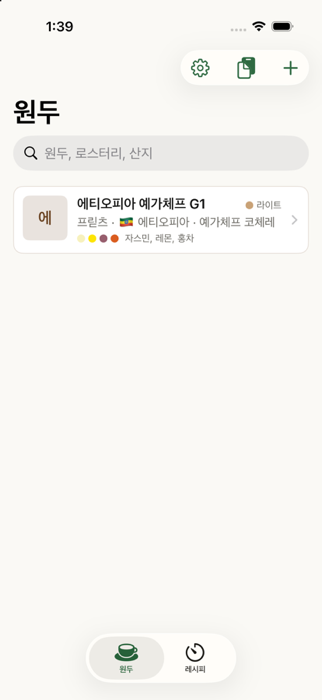
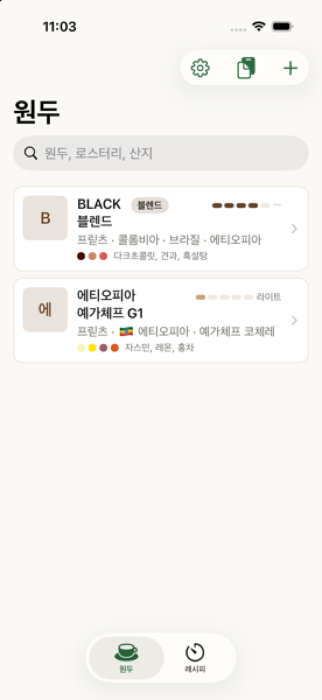
0.8.1 — 디자인 리뷰 2회차: 타이머 카운트다운·진행 바, 로스팅 바, 로고 컨셉 1차
- 추출 카드: 다음 푸어까지 남은 초를 34pt 숫자(5초 이하 체리)로, 현재 단계 진행 바 (Crouton·Numbies 타이머 패턴)
- RoastBar: 로스팅 포인트 7단계 → 5칸 바. 목록 행·문서 헤더에 표시 (DESIGN_DIRECTION 시그니처 무브)
- docs/DESIGN_REVIEW_2026-10.md: UI 레퍼런스 MCP 5종(Mobbin·Nicelydone·Refero·Lazyweb·InspoAI) 조사·연결 상태·레퍼런스·반영 내역
- docs/logo/: 로고 리디자인 컨셉 1차(Sapling / Bookmark / Bracketed Bean) 시안·SVG
- 테스트: 단위 58/58, 타이머·컵 피커·레이아웃 UI 8/8

diff --git a/BeanMuWiki/BrewCardView.swift b/BeanMuWiki/BrewCardView.swift
@@ -168,12 +168,22 @@ struct BrewCardView: View {
                 }
                 let next = (phase ?? -1) + 1
                 if next < times.count {
-                    let wait = Int((Double(times[next]) - elapsed).rounded(.up))
-                    Text("다음 · \(PourStep.timeString(times[next])) → \(target(next)) (\(max(0, wait))초 후)")
-                        .font(.subheadline).foregroundStyle(Color.ink)
+                    let wait = max(0, Int((Double(times[next]) - elapsed).rounded(.up)))
+                    let start = Double(phase.map { times[$0] } ?? 0), end = Double(times[next])
+                    let progress = end > start ? min(1, max(0, (elapsed - start) / (end - start))) : 1
+                    // 다음 단계: 남은 초가 가장 큰 숫자, 그 아래 목표와 메모. 진행 바는 지금 단계가 얼마나 지났는지
+                    HStack(alignment: .firstTextBaseline, spacing: Theme.s8) {
+                        Text("\(wait)").font(.system(size: 34, weight: .bold, design: .rounded)).foregroundStyle(wait <= 5 ? Color.cherry : Color.ink)
+                            .contentTransition(.numericText(countsDown: true)).animation(.default, value: wait)
+                        Text("초 후 · \(PourStep.timeString(times[next])) → \(target(next))").font(.subheadline).foregroundStyle(Color.ink)
+                    }
+                    .accessibilityElement(children: .combine)
+                    .accessibilityLabel("다음 \(PourStep.timeString(times[next])) \(target(next)) \(wait)초 후")
                     if next < steps.count, !steps[next].note.isEmpty {
                         Text(steps[next].note).font(.subheadline).foregroundStyle(Color.muted)
                     }
+                    ProgressView(value: progress).tint(.brand).padding(.top, Theme.s4)
+                        .accessibilityHidden(true)
                 }
             }
             .font(.system(.body, design: .rounded)).monospacedDigit()

diff --git a/BeanMuWiki/FlavorViews.swift b/BeanMuWiki/FlavorViews.swift
@@ -213,6 +213,30 @@ struct FlavorChips: View {
     }
 }
 
+/// 로스팅 바: 로스팅 포인트(라이트 … 베리 다크)를 5칸 바로. 칸 색은 그 단계의 원두색, 빈 칸은 cardTint.
+/// 목록에 없는 표기면 아무것도 그리지 않는다 (호출 쪽에서 텍스트만).
+struct RoastBar: View {
+    let level: String
+    var height: CGFloat = 6
+
+    private static let order = BeanOptions.roastLevels.flatMap(\.options).map(\.name)   // 라이트 → 베리 다크
+    private var index: Int? { Self.order.firstIndex(of: level) }
+
+    var body: some View {
+        if let index {
+            let filled = Int((Double(index + 1) / Double(Self.order.count) * 5).rounded(.up))   // 7단계 → 5칸
+            let color = BeanOptions.option(named: level, in: BeanOptions.roastLevels)?.color ?? .bean
+            HStack(spacing: 3) {
+                ForEach(0..<5, id: \.self) { i in
+                    Capsule().fill(i < filled ? color : Color.cardTint).frame(height: height)
+                }
+            }
+            .frame(width: 5 * 12 + 4 * 3)
+            .accessibilityLabel("로스팅 \(level)")
+        }
+    }
+}
+
 /// 목록 행용 색 점 묶음 (최대 8개).
 struct FlavorDots: View {
     let tags: [String]

diff --git a/BeanMuWiki/BeanDetailView.swift b/BeanMuWiki/BeanDetailView.swift
@@ -96,7 +96,7 @@ struct BeanDetailView: View {
             if !meta.isEmpty { Text(meta.joined(separator: " · ")).font(.subheadline).foregroundStyle(Color.muted) }
             if !bean.roastLevel.isEmpty {
                 HStack(spacing: 6) {
-                    OptionBadge(value: bean.roastLevel, groups: BeanOptions.roastLevels, ownColor: true)
+                    RoastBar(level: bean.roastLevel)
                     Text(bean.roastLevel).font(.caption.weight(.semibold))
                 }
                 .padding(.horizontal, Theme.s8).padding(.vertical, 3)

diff --git a/BeanMuWiki/BeanListView.swift b/BeanMuWiki/BeanListView.swift
@@ -116,7 +116,7 @@ struct BeanRow: View {
                     Spacer(minLength: 0)
                     if !bean.roastLevel.isEmpty {
                         HStack(spacing: Theme.s4) {
-                            OptionBadge(value: bean.roastLevel, groups: BeanOptions.roastLevels, ownColor: true)
+                            RoastBar(level: bean.roastLevel)
                             Text(bean.roastLevel)
                         }
                         .font(.caption).foregroundStyle(rowMeta).lineLimit(1)

diff --git a/docs/DESIGN_REVIEW_2026-10.md b/docs/DESIGN_REVIEW_2026-10.md
@@ -1,0 +1,43 @@
+# 디자인 리뷰 2회차 (2026-10-09) — UI 레퍼런스 MCP 5종 + 로고 리디자인
+
+## 1. 연결한 MCP (사용자 설정, `claude mcp list`)
+
+| MCP | 무엇을 하나 | 엔드포인트 | 접근 조건 | 상태 |
+|---|---|---|---|---|
+| **Mobbin** | 실제 출시 앱·웹의 화면·플로우·섹션 검색 (`search_screens` / `search_flows` / `search_sections`). 레퍼런스 양과 큐레이션이 가장 큼 | `https://api.mobbin.com/mcp` | Mobbin 계정 OAuth, **Pro 이상 유료** | 등록됨 · 인증 필요 |
+| **Nicelydone** | SaaS 제품 21만 화면·8천 플로우. 패턴(모달·폼·네비·테이블)·컴포넌트·앱 카테고리 탐색, 컬렉션 정리 (12개 도구) | `https://mcp.nicelydone.club/mcp` | OAuth 2.1, **프리미엄 유료** | 등록됨 · 인증 필요 |
+| **Refero** | 15만 실제 앱 화면·플로우 + `styles.refero.design`의 디자인 시스템(DESIGN.md) 카탈로그 | `https://api.refero.design/mcp` | OAuth 또는 토큰, **Pro/Team/Lifetime 유료** (커뮤니티 npx 버전은 403으로 막힘) | 등록됨 · 인증 필요 |
+| **Lazyweb** | 28만 화면·1.5만 플로우/회사 페이지의 시맨틱 검색. 공개 엔드포인트는 계정·키 없이 동작 | `https://www.lazyweb.com/mcp/public` | 무료 (Pro는 전체 리포트) | **연결됨** |
+| **InspoAI** | 20만 실제 화면을 근거로 UI 화면을 **생성**(React+Tailwind), 디자인→Figma 변환, UI·아이콘·서체 레퍼런스 검색 | `https://app.inspoai.io/mcp` | OAuth (요금제 확인 필요) | 등록됨 · 인증 필요 |
+
+인증이 필요한 4개는 새 세션에서 `/mcp` → 해당 서버 → **Authenticate**로 브라우저 로그인하면 됩니다. Mobbin·Nicelydone·Refero는 유료 플랜이 있어야 도구가 응답합니다(결제는 사용자 판단).
+
+## 2. 이번에 참고한 레퍼런스 (Lazyweb 공개 검색)
+
+- **Crouton — Follow cooking steps / Open recipe**: 레시피 상세 → 단계 화면에서 한 단계만 크게, 체크 가능, 타이머 내장. → 추출 카드의 "지금 단계" 강조와 같은 구조.
+- **Numbies — 세션 타이머**: 화면에 큰 숫자 하나(세션 시간)와 현재 항목, 다음 동작 버튼. → 다음 푸어까지 남은 초를 큰 숫자로.
+- **Beli — Taste Profile**: 취향을 색·태그로 요약한 프로필. → 원두의 로스팅 포인트를 바(bar)로 즉시 읽히게, 플레이버 도트와 짝.
+- 커피 전용 앱(Beanconqueror, 빈카이브 등)은 Lazyweb 공개 인덱스에 없어 Mobbin/Nicelydone 인증 후 2차 리뷰 대상.
+
+## 3. 반영한 수정
+
+1. **추출 카드 타이머**: 다음 푸어까지 남은 초를 34pt 숫자로(5초 이하 체리색), 그 옆에 시각·목표 g, 아래에 현재 단계 진행 바. 경과 시간(56pt)과 함께 "지금 / 다음" 두 숫자만 보면 되게.
+2. **로스팅 바**: 로스팅 포인트 7단계를 5칸 바로(칸 색 = 그 단계 원두색). 목록 행 오른쪽 위와 문서 헤더 배지에 표시. `RoastBar` (FlavorViews.swift).
+3. 이전 라운드에서 들어간 것: 레시피 변형 배지, 컵 피커, 블렌드 배지.
+
+## 4. 2차 리뷰에서 볼 것 (MCP 인증 후)
+
+- Mobbin: "coffee brew timer", "tasting notes" 플로우 — 추출 카드의 단계 전환 애니메이션·햅틱 타이밍, 기록 폼의 별점 UI.
+- Nicelydone: 테이블·폼 패턴 — Mac 기록 표와 그룹 폼 밀도.
+- Refero: 디자인 시스템 카탈로그 — 크림 캔버스 계열 스타일과 토큰 비교(`Theme.swift`).
+- InspoAI: 빈 상태·온보딩 화면 생성 시안.
+
+## 5. 로고 리디자인 (logo-design 스킬, 1차 컨셉)
+
+현재 아이콘: 에메랄드 그라디언트 타일 + 흰 원두 + 새싹. 유지할 자산은 **초록 계열**과 **원두 실루엣**. 컨셉 시안 `docs/logo/concepts-round1.png`, SVG `docs/logo/concept-*.svg`.
+
+- **A · Sapling Bean (추천)** — 원두의 틈이 묘목으로 자란다. Bean + 나무(위키)를 한 형태로, 기존 새싹 아이콘의 진화. 16px에서도 읽힘.
+- **B · Bookmark Bean** — 원두에 책갈피 리본. "저장된 항목"이라는 위키 성격. 16px에서 리본이 약해짐.
+- **C · Bracketed Bean** — 위키 링크 `[[ ]]` 사이의 원두. 타이포그래픽하고 또렷하지만 원두 자체는 작아짐.
+
+방향이 정해지면 색(브랜드 그린 단색·크림 반전), 소형 컷, 앱 아이콘·파비콘 세트, 사용 가이드를 만든다.

diff --git a/README.md b/README.md
@@ -11,7 +11,7 @@
 - **추출 기록** — 추출 중 바뀌지 않는 조건(원두 g, 물 온도, 분쇄도)과 **푸어 단계 슬롯**(몇 초에 누적 몇 g을 어떤 방식으로)을 나눠 적습니다. 단계를 추가하면 물 총량과 비율이 따라 계산됩니다. 평점과 노트를 남기고, 잘 나온 기록을 ★ 기준 레시피로 두면 다음 기록이 그 값으로 미리 채워집니다.
 - **HOT / ICED × 드리퍼** — 기록마다 서빙과 드리퍼(V60, 칼리타 101, 칼리타 웨이브, 오리가미 …)를 고르고, ICED는 서버 얼음 g을 따로 적어 브루 비율과 최종 비율(물+얼음)이 함께 계산됩니다. ★ 기준 레시피는 **서빙 × 드리퍼** 조합마다 하나씩 둘 수 있어, 같은 원두의 V60 레시피와 칼리타 101 레시피가 나란히 남습니다. 새 기록 폼에서 드리퍼를 바꾸면 그 드리퍼의 기준 레시피로 미리 채워집니다. 기록에 **변형 이름**(예: "연하게", "여자친구용")을 붙이면 같은 서빙·드리퍼 아래에서도 별도 ★로 남고, 레시피 카드와 추출 카드에 배지로 보입니다. 양을 바꾸는 건 변형이 아니라 추출 카드의 **컵 피커**(355 / 473 / 591 ml)가 비율 그대로 늘려 줍니다.
 - **싱글 오리진 / 블렌드** — 원두 유형을 구분합니다. 블렌드는 구성 산지를 "콜롬비아 · 브라질"처럼 이어 적고 목록·문서에 블렌드 배지가 붙으며, Mac 사이드바에서 유형별로 걸러 볼 수 있습니다.
-- **레시피 탭과 추출 카드** — 원두마다 서빙별 ★ 기준 레시피가 카드로 모이고 전체 / HOT / ICED로 걸러 볼 수 있습니다. 카드를 열면 조건 한 줄과 푸어 단계가 한 화면에 큰 글씨로 나오고, **타이머 시작**을 누르면 경과 시간에 맞춰 지금 부어야 할 누적 g과 기법, 다음 푸어까지 남은 초가 안내됩니다(단계 전환 햅틱, 추출 중 화면 켜짐 유지). **추출 끝**을 누르면 실제 시간이 들어간 새 기록이 만들어져 별점만 매기면 됩니다.
+- **레시피 탭과 추출 카드** — 원두마다 서빙별 ★ 기준 레시피가 카드로 모이고 전체 / HOT / ICED로 걸러 볼 수 있습니다. 카드를 열면 조건 한 줄과 푸어 단계가 한 화면에 큰 글씨로 나오고, **타이머 시작**을 누르면 경과 시간에 맞춰 지금 부어야 할 누적 g과 기법이 안내되고, 다음 푸어까지 남은 초가 큰 숫자와 진행 바로 보입니다(단계 전환 햅틱, 추출 중 화면 켜짐 유지). **추출 끝**을 누르면 실제 시간이 들어간 새 기록이 만들어져 별점만 매기면 됩니다.
 - **ChatGPT 연동 (앱 안에 AI 없음)** — 함께 들어 있는 프롬프트(`ChatGPT_Prompt.md`)에 원두를 알려주면 ChatGPT가 산지·품종·가공·컵노트를 조사하고 V60 레시피를 설계한 뒤 마지막에 JSON을 출력합니다. 그 JSON을 복사해 앱의 **가져오기** 버튼을 누르면 원두 문서와 기준 레시피가 한 번에 만들어집니다. 로스터리 표기(Heirloom, Washed, 플로럴, 레몬캔디 …)는 가져올 때 앱 목록의 표준 이름으로 자동 정규화됩니다. 맛 피드백을 주고 받은 보정 레시피도 같은 방법으로 붙여넣으면 기존 원두에 기록만 추가됩니다.
 
 - **Mac 앱** — 같은 소스가 macOS 26에서 Mac다운 3열 창으로 열립니다. 왼쪽 사이드바는 색인(전체 원두 · 레시피 · HOT/ICED · 로스터리별 · 원산지별, 개수 배지), 가운데는 목록과 검색, 오른쪽은 원두 문서 또는 추출 카드. 추출 기록은 정렬 가능한 표로, 설정은 ⌘, 창으로 열립니다. ⌘N 새 원두, ⇧⌘V 클립보드 가져오기, ⌫·우클릭 삭제(확인 후), 툴바와 사이드바 아래에 동기화 상태 표시.
@@ -118,6 +118,10 @@ BeanMuWikiUITests/      UI 테스트
 ChatGPT_Prompt.md       레시피 설계 프롬프트 + Import JSON 스키마
 docs/                   로드맵(ROADMAP.md), 디자인 방향(DESIGN_DIRECTION.md), 스크린샷
 ```
+
+## 디자인 리뷰
+
+UI 레퍼런스 MCP(Mobbin · Nicelydone · Refero · Lazyweb · InspoAI) 연결과 2차 리뷰 결과, 로고 리디자인 컨셉은 `docs/DESIGN_REVIEW_2026-10.md`와 `docs/logo/`에 있습니다.
 
 ## 로드맵
 
